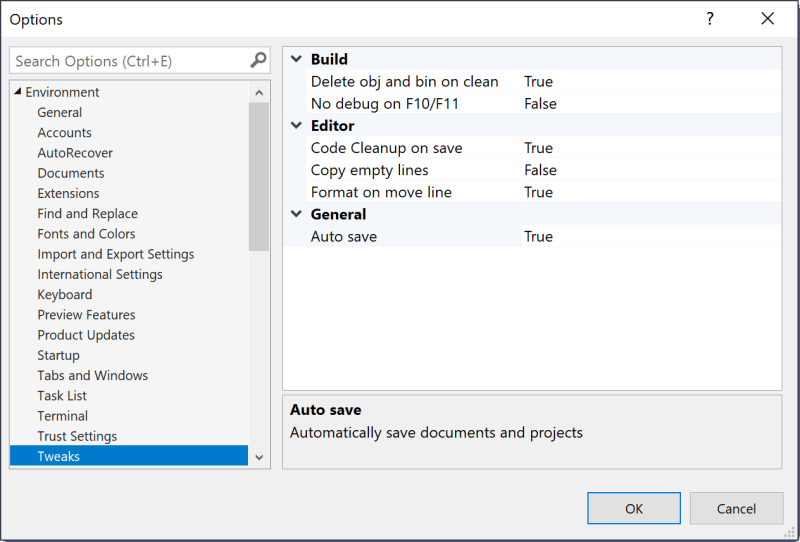
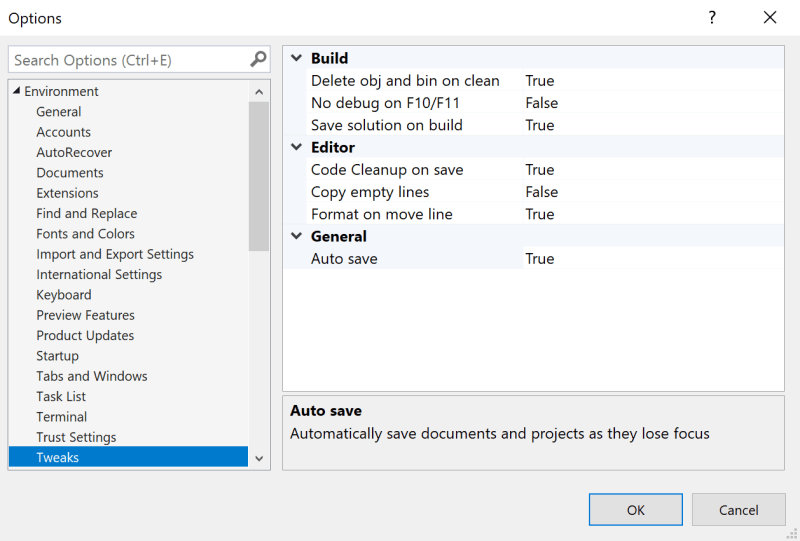
Added Save solution on build

Changed region(s): [[0.0, 0.0, 1.0, 1.0], [0.6562, 0.1183, 0.7188, 0.5028]]

diff --git a/src/Tweaks/AutoSave/AutoSave.cs b/src/Tweaks/AutoSave/AutoSave.cs
@@ -11,6 +11,7 @@ namespace Tweakster.Tweaks.AutoSave
         private static DTE2 _dte;
         private static WindowEvents _windowEvents;
         private static ProjectItemsEvents _projectsEvents;
+        private static BuildEvents _buildEvents;
 
         public static async Task InitializeAsync(AsyncPackage package)
         {
@@ -19,6 +20,9 @@ namespace Tweakster.Tweaks.AutoSave
             _dte = await package.GetServiceAsync(typeof(DTE)) as DTE2;
             Assumes.Present(_dte);
 
+            _buildEvents = _dte.Events.BuildEvents;
+            _buildEvents.OnBuildBegin += OnBuildBegin;
+
             _windowEvents = _dte.Events.WindowEvents;
             _windowEvents.WindowActivated += OnWindowActivated;
 
@@ -26,8 +30,17 @@ namespace Tweakster.Tweaks.AutoSave
             _projectsEvents.ItemAdded += (p) => OnProjectItemChange(p);
             _projectsEvents.ItemRemoved += (p) => OnProjectItemChange(p);
             _projectsEvents.ItemRenamed += (p, n) => OnProjectItemChange(p);
+
+
         }
 
+        private static void OnBuildBegin(vsBuildScope Scope, vsBuildAction Action)
+        {
+            if (Options.Instance.SaveAllOnBuild)
+            {
+                _dte.ExecuteCommand("File.SaveAll");
+            }
+        }
 
         private static void OnProjectItemChange(ProjectItem item)
         {
@@ -59,7 +72,8 @@ namespace Tweakster.Tweaks.AutoSave
         {
             return Options.Instance.AutoSave &&
                    _dte.Mode == vsIDEMode.vsIDEModeDesign &&
-                   item?.ContainingProject != null;
+                   item?.ContainingProject != null &&
+                   item?.ContainingProject?.Kind != ProjectKinds.vsProjectKindSolutionFolder;
         }
     }
 }

diff --git a/src/Tweaks/AutoSave/Options.cs b/src/Tweaks/AutoSave/Options.cs
@@ -6,8 +6,14 @@ namespace Tweakster
     {
         [Category(Category.General)]
         [DisplayName("Auto save")]
-        [Description("Automatically save documents and projects")]
+        [Description("Automatically save documents and projects as they lose focus")]
         [DefaultValue(true)]
         public bool AutoSave { get; set; } = true;
+
+        [Category(Category.Build)]
+        [DisplayName("Save solution on build")]
+        [Description("Calls the 'Save All' command when a build begins")]
+        [DefaultValue(true)]
+        public bool SaveAllOnBuild { get; set; } = true;
     }
 }

diff --git a/README.md b/README.md
@@ -17,6 +17,7 @@ It's from those tickets inspiration for this extension came.
 * [Set verbosity level in Output Window](#outputverbosity)
 * [Re-open closed file](#reopen)
 * [Auto save](#autosave)
+* [Save solution on build](#savesolutiononbuild)
 * [Don't copy empty lines](#dontcopyemptylines)
 * [Don't start debug on F10/F11](#nodebugonf10)
 * [Restart command](#restart)
@@ -55,6 +56,12 @@ Inspired by the suggestion [Option to Auto Save the editor pages](https://develo
 Automatic saving of documents happen when the document loses focus. That could happen when you open a different document or click around in another tool window such as Solution Explorer. It will also save any changes to its containing project.
 
 Projects are also automatically saved when files are added, removed or renamed. 
+
+<h3 id="savesolutiononbuild">Save solution on build</h3>
+
+Inspired by the suggestion [Save Solution on Build](https://developercommunity.visualstudio.com/idea/672715/save-solution-on-build.html).
+
+When executing a build, the solution, project and all unsaved files that are part of the solution will be saved. This ensures that the .suo file is kept current in case of any crash caused by the running app. 
 
 <h3 id="dontcopyemptylines">Don't copy empty lines</h3>
 
